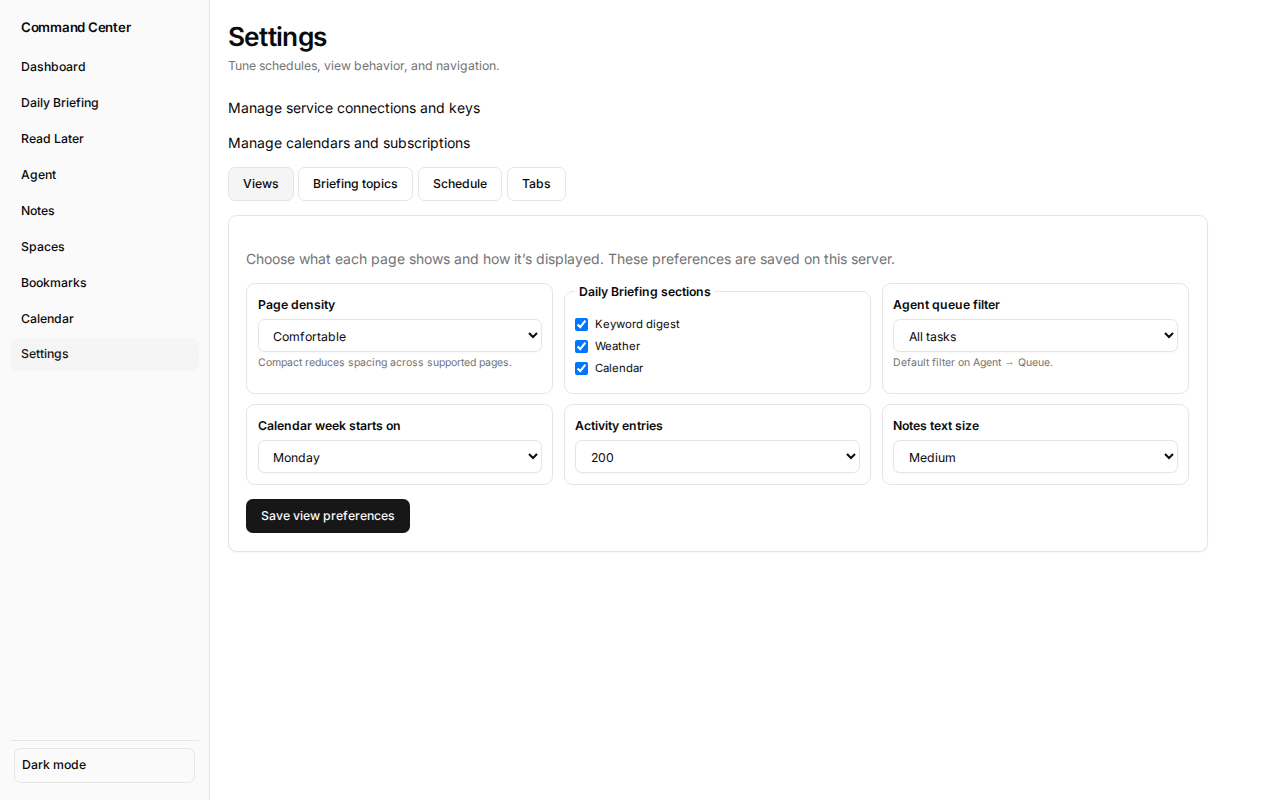
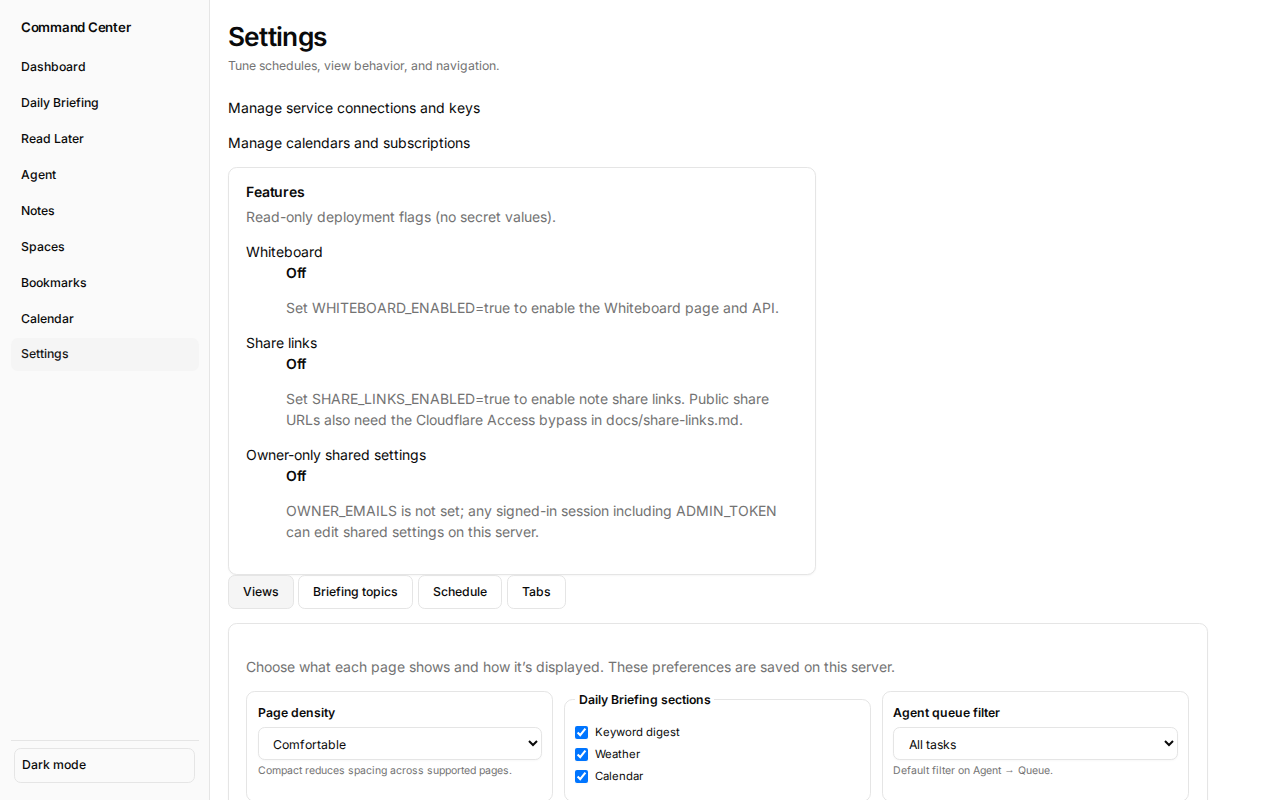
Settings: render deployment features; ADMIN_TOKEN shared-state bypass
Show read-only Features on Settings from meta.features. Allow ADMIN_TOKEN
to manage shared settings when OWNER_EMAILS is set; block non-owner Access
sessions. Add tests and refresh settings-accuracy screenshots.

diff --git a/apps/server/test/settings-accuracy.test.ts b/apps/server/test/settings-accuracy.test.ts
@@ -50,12 +50,18 @@ async function harness(env: Record<string, string> = {}, owner = false) {
 
 const writeHeaders = { authorization: `Bearer ${TOKEN}`, "x-ah": "1", "content-type": "application/json" };
 
-test("canManageSharedServerState: open when OWNER_EMAILS unset; owner-only when set", () => {
+test("canManageSharedServerState: open when OWNER_EMAILS unset; owner or admin-token when set", () => {
   const open = loadConfig({ DATA_DIR: "/tmp/x", ALLOW_INSECURE_NO_AUTH: "1" });
-  assert.equal(canManageSharedServerState(open, false), true);
-  const locked = loadConfig({ DATA_DIR: "/tmp/x", ALLOW_INSECURE_NO_AUTH: "1", OWNER_EMAILS: "owner@example.com" });
-  assert.equal(canManageSharedServerState(locked, false), false);
-  assert.equal(canManageSharedServerState(locked, true), true);
+  assert.equal(canManageSharedServerState(open, { owner: false, who: "guest@example.com" }), true);
+  const locked = loadConfig({
+    DATA_DIR: "/tmp/x",
+    ALLOW_INSECURE_NO_AUTH: "1",
+    OWNER_EMAILS: "owner@example.com",
+    ADMIN_TOKEN: TOKEN,
+  });
+  assert.equal(canManageSharedServerState(locked, { owner: false, who: "guest@example.com" }), false);
+  assert.equal(canManageSharedServerState(locked, { owner: true, who: "owner@example.com" }), true);
+  assert.equal(canManageSharedServerState(locked, { owner: false, who: "admin-token" }), true);
 });
 
 test("settings API: meta.features and canManage reflect deployment", async () => {
@@ -63,12 +69,53 @@ test("settings API: meta.features and canManage reflect deployment", async () =>
   try {
     const res = await fetch(`${h.base}/api/settings`, { headers: writeHeaders });
     const body = await res.json();
-    assert.equal(body.meta.canManage, false);
+    assert.equal(body.meta.canManage, true);
+    assert.equal(body.meta.ownerEmailsConfigured, true);
     assert.equal(body.meta.features.shareLinksEnabled, true);
     assert.equal(body.meta.features.whiteboardEnabled, true);
-    assert.equal((await fetch(`${h.base}/api/settings`, { method: "PUT", headers: writeHeaders, body: "{}" })).status, 403);
+    assert.equal((await fetch(`${h.base}/api/settings`, { method: "PUT", headers: writeHeaders, body: "{}" })).status, 200);
   } finally {
     await h.close();
+  }
+});
+
+test("settings API: non-owner Access session cannot write when OWNER_EMAILS is set", async () => {
+  const dir = await mkdtemp(join(tmpdir(), "cc-settings-acc-guest-"));
+  const cfg = loadConfig({
+    DATA_DIR: dir,
+    ADMIN_TOKEN: TOKEN,
+    TZ: "UTC",
+    ALLOW_INSECURE_NO_AUTH: "1",
+    OWNER_EMAILS: "owner@example.com",
+  });
+  const settings = new SettingsStore(dir);
+  await settings.load();
+  const dailyBriefing = await DailyBriefingService.open(dir, cfg.tz);
+  const notes = await NotesStore.open(dir);
+  const integration = await openIntegrationStores(dir, cfg);
+  const server = createApp({
+    cfg,
+    auth: async () => ({ ok: true, who: "visitor@example.com", owner: false }),
+    settings,
+    dailyBriefing,
+    notes,
+    ...integration,
+  });
+  await new Promise<void>((r) => server.listen(0, "127.0.0.1", r));
+  const base = `http://127.0.0.1:${(server.address() as AddressInfo).port}`;
+  try {
+    const get = await fetch(`${base}/api/settings`, { headers: { "x-ah": "1" } });
+    const body = await get.json();
+    assert.equal(body.meta.canManage, false);
+    const put = await fetch(`${base}/api/settings`, {
+      method: "PUT",
+      headers: { "x-ah": "1", "content-type": "application/json" },
+      body: JSON.stringify({ briefingTime: "07:30" }),
+    });
+    assert.equal(put.status, 403);
+  } finally {
+    await closeIntegrationServer(server, integration);
+    await rm(dir, { recursive: true, force: true });
   }
 });
 
@@ -94,17 +141,17 @@ test("settings API: owner can update; retired dashboard prefs are stripped", asy
   }
 });
 
-test("dashboard layout and capture tokens require owner when OWNER_EMAILS is set", async () => {
-  const h = await harness({ OWNER_EMAILS: "owner@example.com" });
+test("dashboard layout and capture tokens accept ADMIN_TOKEN when OWNER_EMAILS is set", async () => {
+  const h = await harness({ OWNER_EMAILS: "owner@example.com", ADMIN_TOKEN: TOKEN });
   try {
     const layoutPut = await fetch(`${h.base}/api/dashboard-layout`, {
       method: "PUT",
       headers: writeHeaders,
       body: JSON.stringify({ version: 2, cols: 12, rowHeight: 32, panels: [] }),
     });
-    assert.equal(layoutPut.status, 403);
+    assert.equal(layoutPut.status, 200);
     const capturePost = await fetch(`${h.base}/api/capture/access`, { method: "POST", headers: writeHeaders, body: "{}" });
-    assert.equal(capturePost.status, 403);
+    assert.equal(capturePost.status, 201);
   } finally {
     await h.close();
   }

diff --git a/apps/server/src/ui/pages.ts b/apps/server/src/ui/pages.ts
@@ -11,6 +11,11 @@ export function settingsPage(nav?: NavLink[]): string {
     body: `<header class="page-header"><h1>Settings</h1><p class="dim">Tune schedules, view behavior, and navigation.</p></header>
 <p><a href="/settings/connections">Manage service connections and keys</a></p>
 <p><a href="/settings/calendars">Manage calendars and subscriptions</a></p>
+<section class="card settings-card" id="settings-features" aria-label="Deployment features">
+<h2 style="margin:0 0 .5rem;font-size:1rem">Features</h2>
+<p class="dim" style="margin:0 0 .75rem">Read-only deployment flags (no secret values).</p>
+<dl id="settings-features-list" class="settings-features-list"></dl>
+</section>
 <div class="settings-tabs" role="tablist">
   <button type="button" class="ghost on" data-tab="views">Views</button>
   <button type="button" class="ghost" data-tab="topics">Briefing topics</button>
@@ -112,6 +117,30 @@ function renderTabsEditor(){
   el.querySelectorAll(".tab-up").forEach(function(b){b.onclick=function(){swap(b.dataset.id,-1)}});
   el.querySelectorAll(".tab-down").forEach(function(b){b.onclick=function(){swap(b.dataset.id,1)}});
 }
+function addFeatureRow(list,label,on,offHint,onHint){
+  var row=document.createElement("div");
+  row.className="settings-feature-row";
+  var dt=document.createElement("dt");
+  dt.textContent=label;
+  var dd=document.createElement("dd");
+  var strong=document.createElement("strong");
+  strong.textContent=on?"On":"Off";
+  dd.appendChild(strong);
+  var hint=on?onHint:offHint;
+  if(hint){var p=document.createElement("p");p.className="dim";p.textContent=hint;dd.appendChild(p);}
+  row.append(dt,dd);
+  list.appendChild(row);
+}
+function renderDeploymentFeatures(meta){
+  var list=document.getElementById("settings-features-list");
+  if(!list)return;
+  list.replaceChildren();
+  var features=(meta&&meta.features)||{};
+  var ownerOn=!!(meta&&meta.ownerEmailsConfigured);
+  addFeatureRow(list,"Whiteboard",!!features.whiteboardEnabled,"Set WHITEBOARD_ENABLED=true to enable the Whiteboard page and API.",null);
+  addFeatureRow(list,"Share links",!!features.shareLinksEnabled,"Set SHARE_LINKS_ENABLED=true to enable note share links. Public share URLs also need the Cloudflare Access bypass in docs/share-links.md.",null);
+  addFeatureRow(list,"Owner-only shared settings",ownerOn,"OWNER_EMAILS is not set; any signed-in session including ADMIN_TOKEN can edit shared settings on this server.","OWNER_EMAILS is set; shared settings, dashboard layout writes, and capture tokens require an owner login or ADMIN_TOKEN.");
+}
 function setSettingsReadOnly(readOnly){
   var hint=document.getElementById("settings-manage-hint");
   ["views-save","tabs-save"].forEach(function(id){var el=document.getElementById(id);if(el)el.disabled=readOnly;});
@@ -133,6 +162,7 @@ function loadSettings(){
     document.getElementById("topics-providers").textContent=providers.search&&providers.summarizer
       ?"Brave Search and AI summarizer are ready."
       :"Connection setup needed: "+[!providers.search?"Brave Search (BRAVE_SEARCH_API_KEY)":"",!providers.summarizer?"AI summarizer (LLM_BASE_URL, LLM_API_KEY, LLM_MODEL)":""].filter(Boolean).join("; ")+". Open service connections to configure keys, or use deployment environment variables.";
+    renderDeploymentFeatures(r.meta||{});
     var canManage=!(r.meta&&r.meta.canManage===false);
     setSettingsReadOnly(!canManage);
     document.getElementById("topics-save").disabled=!canManage;

diff --git a/apps/server/src/http.ts b/apps/server/src/http.ts
@@ -395,7 +395,7 @@ export function createApp(app: App): Server {
         });
       }
       if (req.method === "PUT" && path === "/api/dashboard-layout") {
-        if (!canManageSharedServerState(app.cfg, who.owner === true)) {
+        if (!canManageSharedServerState(app.cfg, { owner: who.owner === true, who: who.who })) {
           return json(res, 403, { error: OWNER_ACTION_FORBIDDEN });
         }
         const layout = await app.dashboardLayout.update(await readBody(req));
@@ -407,7 +407,7 @@ export function createApp(app: App): Server {
         return json(res, 200, { layout });
       }
       if (req.method === "POST" && path === "/api/dashboard-layout/reset") {
-        if (!canManageSharedServerState(app.cfg, who.owner === true)) {
+        if (!canManageSharedServerState(app.cfg, { owner: who.owner === true, who: who.who })) {
           return json(res, 403, { error: OWNER_ACTION_FORBIDDEN });
         }
         const layout = await app.dashboardLayout.reset();
@@ -418,7 +418,8 @@ export function createApp(app: App): Server {
         settings: app.settings.get(),
         briefingProviders: { search: Boolean(app.cfg.braveSearchApiKey), summarizer: llmConfigured(app.cfg) },
         meta: {
-          canManage: canManageSharedServerState(app.cfg, who.owner === true),
+          canManage: canManageSharedServerState(app.cfg, { owner: who.owner === true, who: who.who }),
+          ownerEmailsConfigured: app.cfg.ownerEmails.length > 0,
           features: {
             shareLinksEnabled: app.cfg.shareLinksEnabled,
             whiteboardEnabled: app.cfg.whiteboardEnabled,
@@ -426,7 +427,7 @@ export function createApp(app: App): Server {
         },
       });
       if (req.method === "PUT" && path === "/api/settings") {
-        if (!canManageSharedServerState(app.cfg, who.owner === true)) {
+        if (!canManageSharedServerState(app.cfg, { owner: who.owner === true, who: who.who })) {
           return json(res, 403, { error: OWNER_ACTION_FORBIDDEN });
         }
         const next = await app.settings.update(await readBody(req));
@@ -436,7 +437,7 @@ export function createApp(app: App): Server {
       if (
         path === "/api/capture/access"
         && (req.method === "POST" || req.method === "DELETE")
-        && !canManageSharedServerState(app.cfg, who.owner === true)
+        && !canManageSharedServerState(app.cfg, { owner: who.owner === true, who: who.who })
       ) {
         return json(res, 403, { error: OWNER_ACTION_FORBIDDEN });
       }

diff --git a/apps/server/src/ui/capture-page.ts b/apps/server/src/ui/capture-page.ts
@@ -22,6 +22,6 @@ var captureCanManage=true;
 async function refresh(){var r=await api("/api/capture/access");$("capture-state").textContent=r.configured?"A token is active.":"No token yet.";$("capture-revoke").disabled=!r.configured||!captureCanManage;$("capture-create").disabled=!captureCanManage;}
 $("capture-create").onclick=function(){if(!captureCanManage)return;busy(this,async function(){var r=await api("/api/capture/access","POST",{});$("capture-token").value=r.token;$("capture-token-box").hidden=false;await refresh();message("New token created. Any earlier token no longer works.");});};
 $("capture-revoke").onclick=function(){if(!captureCanManage)return;busy(this,async function(){await api("/api/capture/access","DELETE");$("capture-token-box").hidden=true;await refresh();message("Capture access revoked.");});};
-api("/api/settings").then(function(r){captureCanManage=!(r.meta&&r.meta.canManage===false);var hint=$("capture-manage-hint");if(!captureCanManage){hint.hidden=false;hint.textContent="Only an owner can create or revoke capture tokens when OWNER_EMAILS is configured.";}return refresh();}).catch(fail);`,
+api("/api/settings").then(function(r){captureCanManage=!(r.meta&&r.meta.canManage===false);var hint=$("capture-manage-hint");if(!captureCanManage){hint.hidden=false;hint.textContent="When OWNER_EMAILS is configured, capture tokens require an owner login or ADMIN_TOKEN.";}return refresh();}).catch(fail);`,
   });
 }

diff --git a/apps/server/src/owner-auth.ts b/apps/server/src/owner-auth.ts
@@ -4,8 +4,13 @@ import type { Config } from "./config";
 export const OWNER_ACTION_FORBIDDEN =
   "This action requires a verified owner login. Set OWNER_EMAILS and sign in through Cloudflare Access.";
 
-/** Shared server preferences (settings, layout, capture tokens) when OWNER_EMAILS is configured. */
-export function canManageSharedServerState(cfg: Config, owner: boolean): boolean {
+export type SharedSettingsPrincipal = { owner?: boolean; who: string };
+
+/** Shared server preferences (settings, layout, capture tokens). */
+export function canManageSharedServerState(cfg: Config, principal: SharedSettingsPrincipal): boolean {
   if (!cfg.ownerEmails.length) return true;
-  return owner;
+  if (principal.owner) return true;
+  // shortcut: ADMIN_TOKEN keeps automation/tests working when OWNER_EMAILS splits human owners from machine auth.
+  if (principal.who === "admin-token" && cfg.adminToken) return true;
+  return false;
 }

diff --git a/apps/server/test/ui.test.ts b/apps/server/test/ui.test.ts
@@ -87,6 +87,9 @@ test("ui: settings page has schedule and tabs sections", () => {
   assert.match(html, /href="\/settings" class="on"/);
   assert.match(html, /id="tab-schedule"/);
   assert.match(html, /id="tab-views"/);
+  assert.match(html, /id="settings-features-list"/);
+  assert.match(html, /WHITEBOARD_ENABLED/);
+  assert.match(html, /SHARE_LINKS_ENABLED/);
   assert.match(html, /id="tab-tabs"/);
   assert.doesNotMatch(html, /scope-all|fetchInterval|data-pref="(?:news|summaries|aiSecurity|briefing\.news|briefing\.ai)/);
   assert.doesNotMatch(html, /data-pref="dashboard\./);
